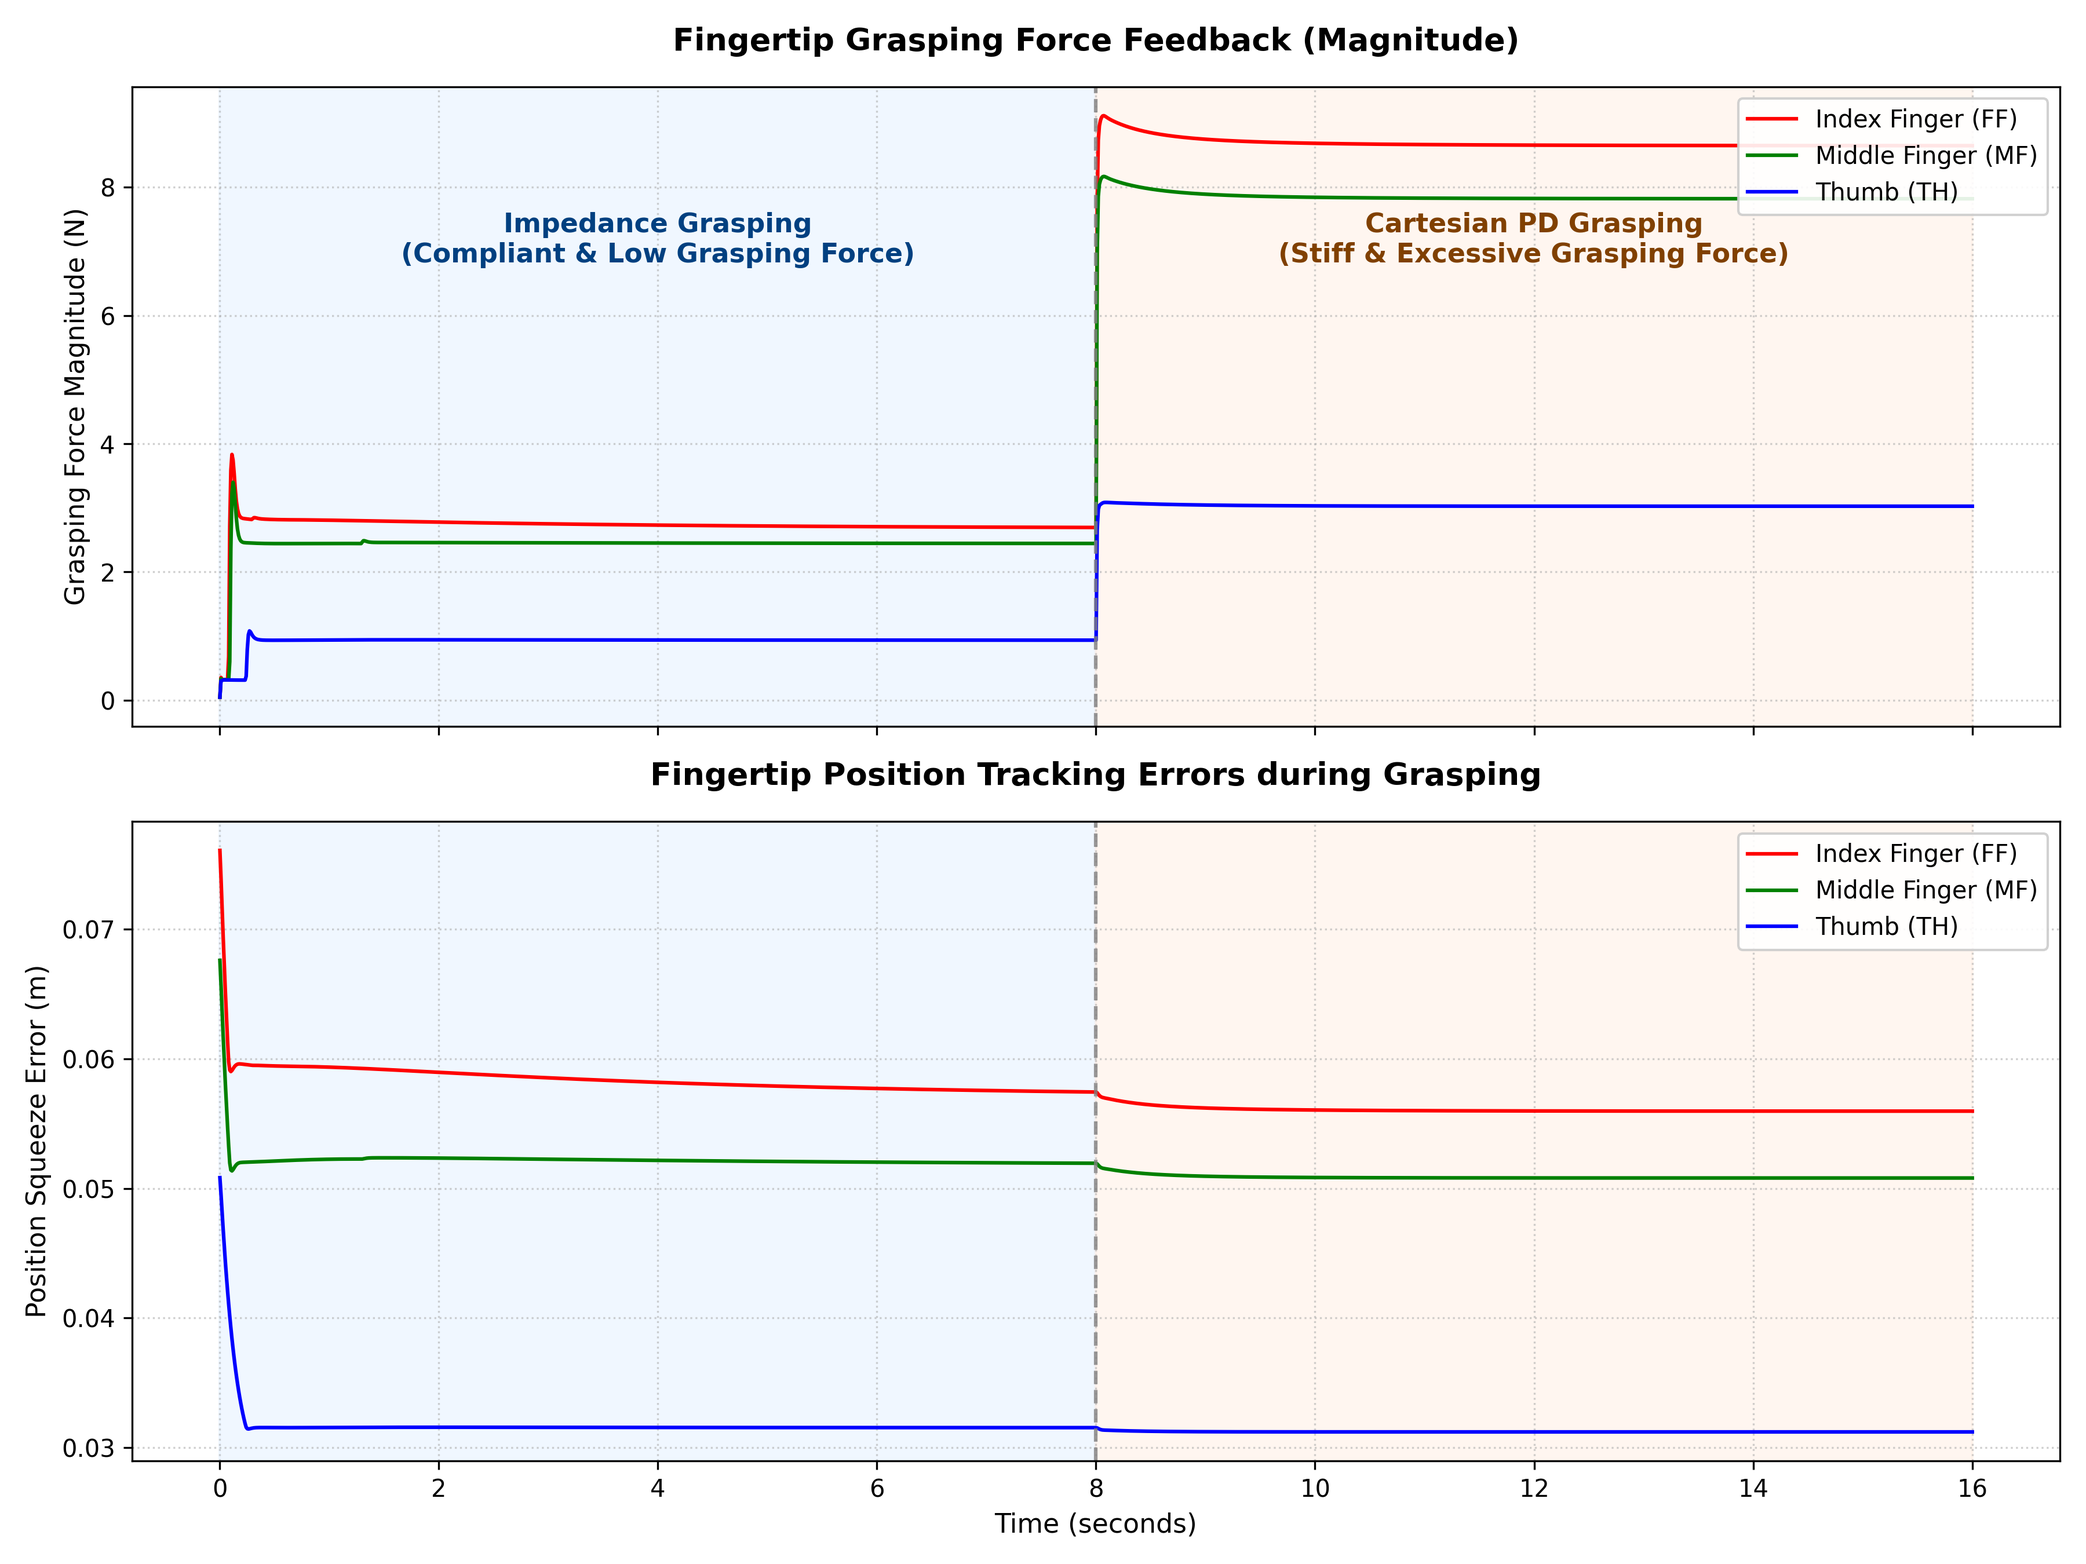
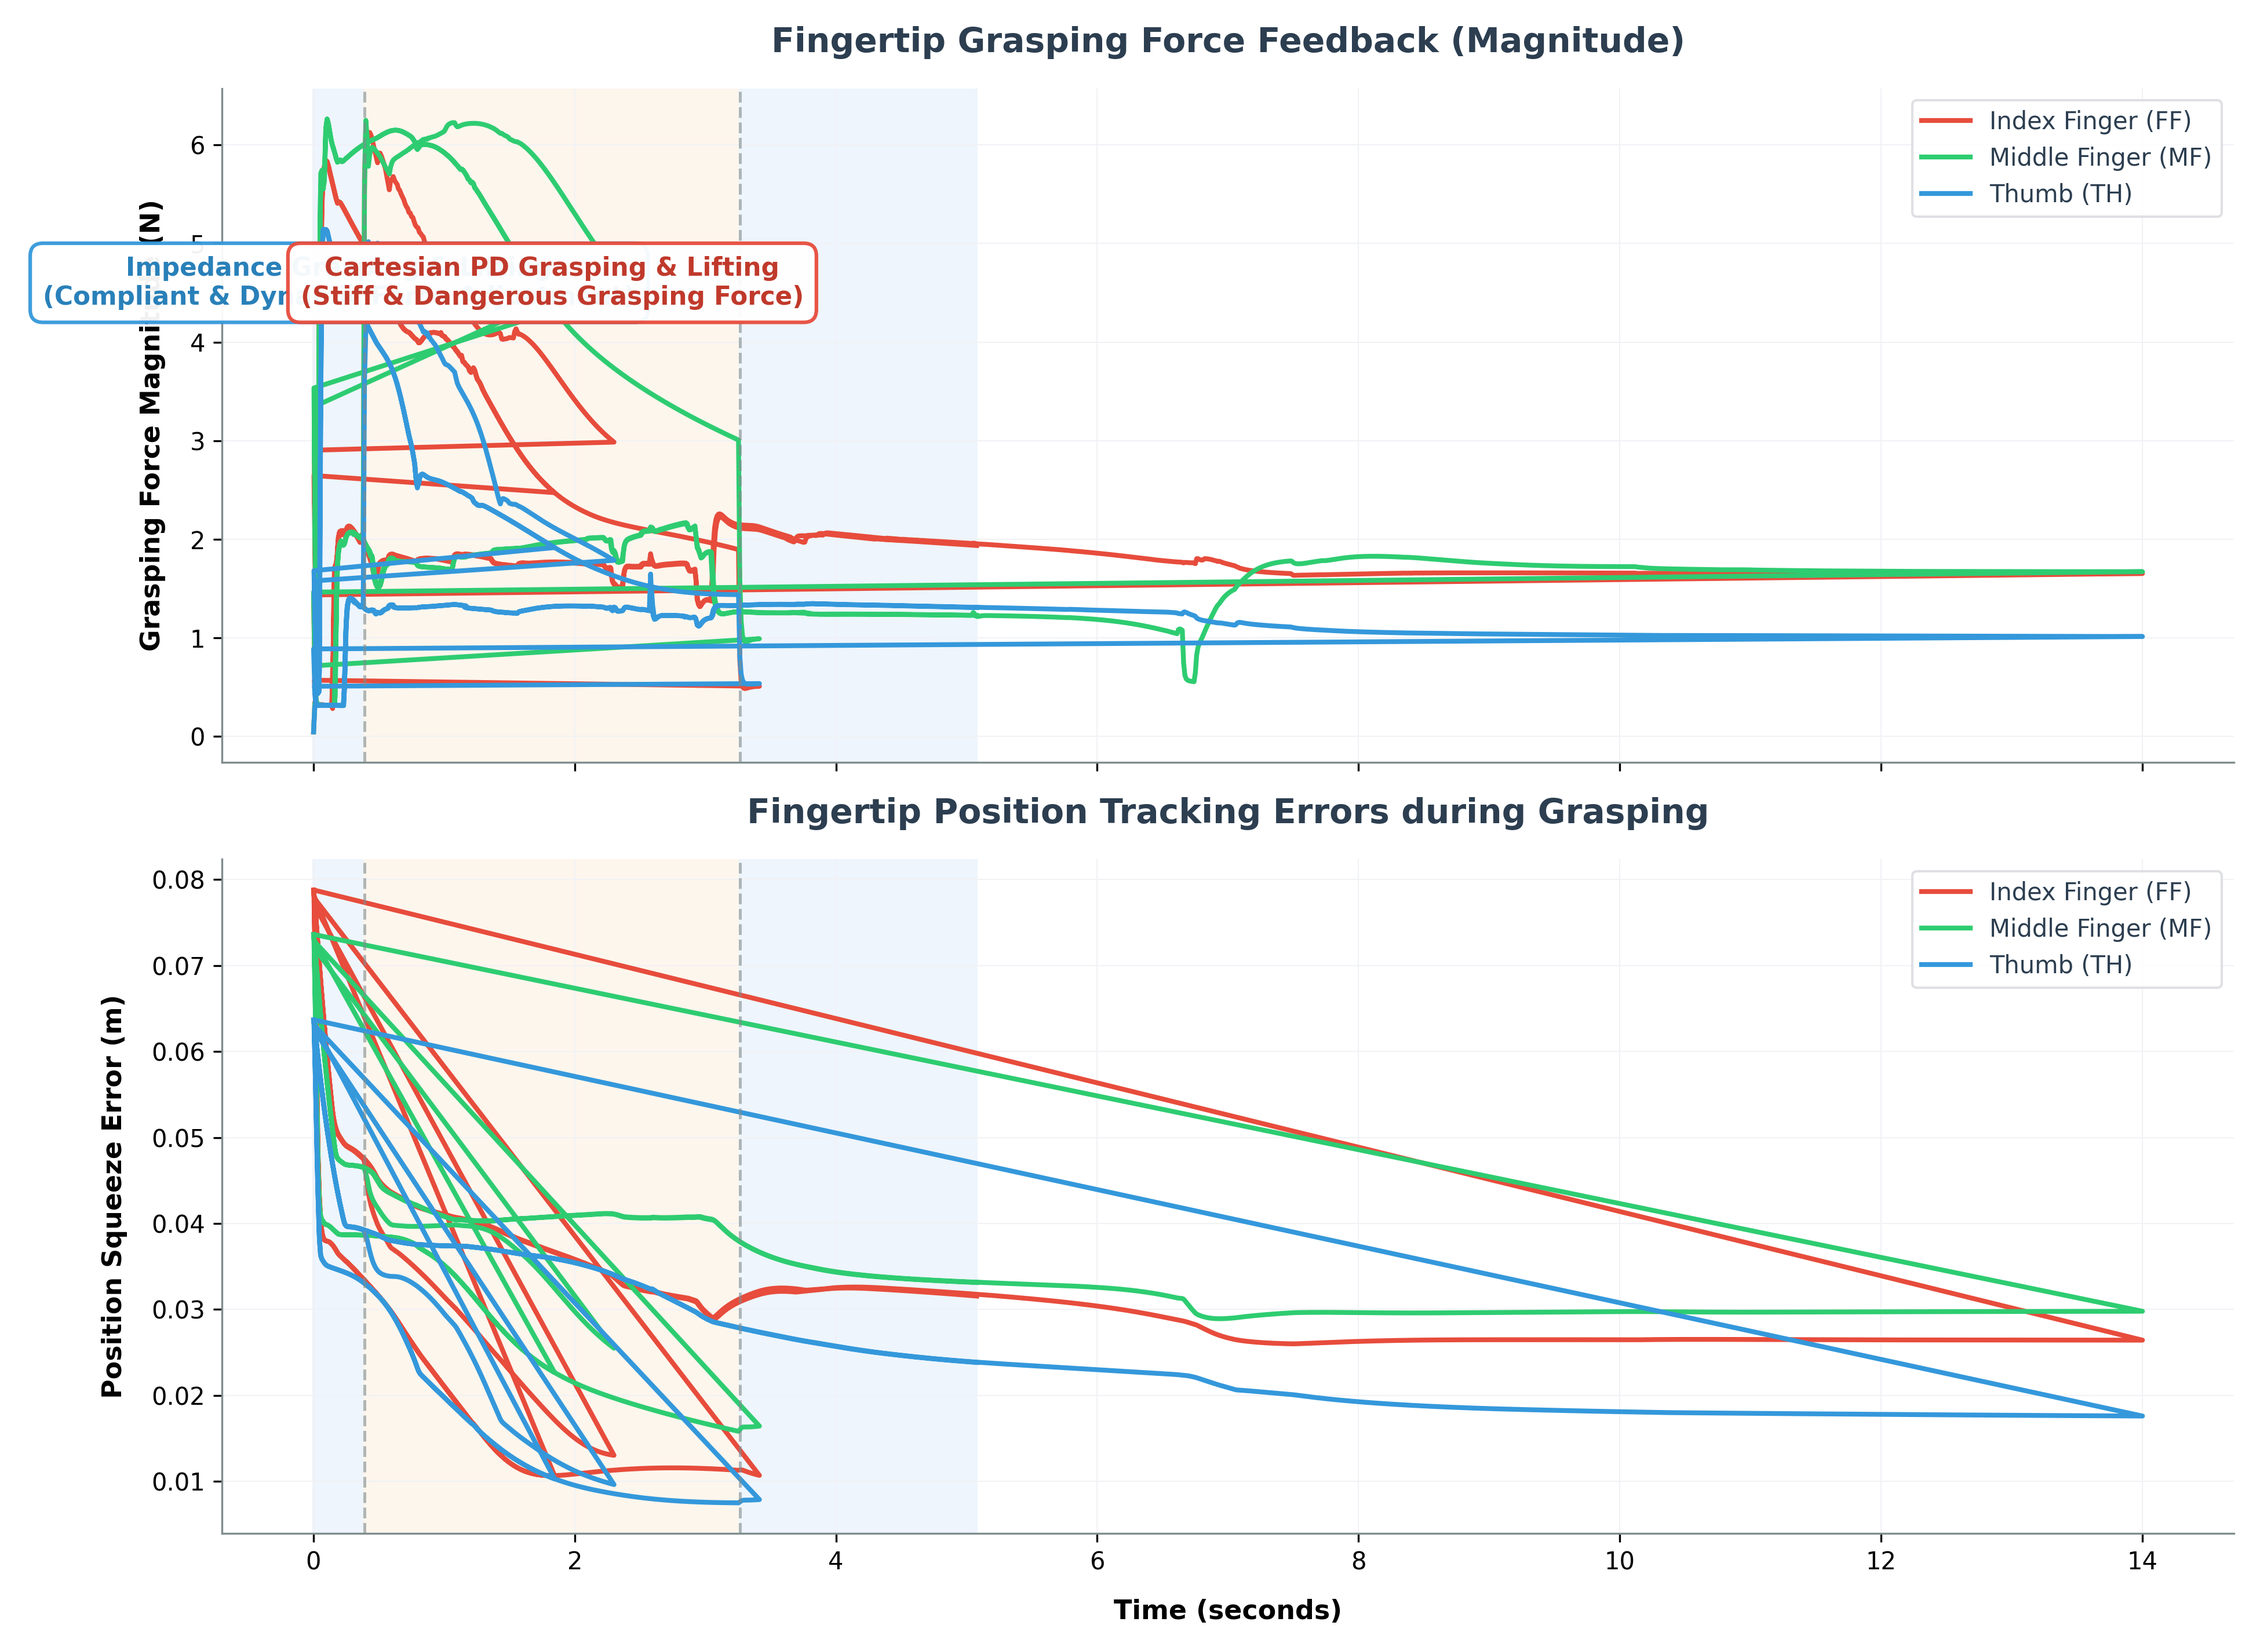
12th commit 그리핑 테스트

diff --git a/MuJoCo/dclaw_sim_standalone.py b/MuJoCo/dclaw_sim_standalone.py
@@ -50,10 +50,11 @@ def main():
     # We set goals around/inside the ball to pinch or touch it.
     # Set goals slightly inside the box boundary to squeeze it
     # Squeezing the static pillar (base center at [0, 0, 0.04], box size x/y is 5cm, height is 8cm)
+    # Squeezing the dynamic elevated pillar (box size x/y is 3cm, height is 6cm, center at z=0.11)
     goals = np.array([
-        [0.0, -0.015, 0.05],  # FFtip goal (squeezing in from front)
-        [0.015, 0.010, 0.05],  # MFtip goal (squeezing in from back-right)
-        [-0.015, 0.010, 0.05]  # THtip goal (squeezing in from back-left)
+        [0.0, -0.010, 0.11],  # FFtip goal (squeezing in from front)
+        [0.010, 0.007, 0.11],  # MFtip goal (squeezing in from back-right)
+        [-0.010, 0.007, 0.11]  # THtip goal (squeezing in from back-left)
     ])
     
     # 5. Controller Gains and Impedance Parameters
@@ -89,10 +90,11 @@ def main():
     print("Close the viewer window to view performance plots.")
     print("Press Ctrl+C in the terminal to exit.\n")
     
-    # Control settings for manual interaction
+    # Control settings for manual interaction (Default to TRUE for live interactive demonstration)
     control_settings = {
         "use_impedance_control": True,
-        "interactive_mode": False
+        "interactive_mode": True,
+        "z_target": 0.11
     }
     
     def key_callback(keycode):
@@ -100,9 +102,14 @@ def main():
             key_char = chr(keycode).lower()
             if key_char == 'm':
                 control_settings["use_impedance_control"] = not control_settings["use_impedance_control"]
-                control_settings["interactive_mode"] = True
                 mode_str = "Impedance Control" if control_settings["use_impedance_control"] else "Cartesian PD Control"
-                print(f"\n>>> [MANUAL MODE] Control mode toggled to: {mode_str} <<<\n")
+                print(f"\n>>> [KEYPRESS] 'M' pressed. Active Control Mode: {mode_str} <<<")
+            elif key_char == 'u':
+                control_settings["z_target"] = 0.17
+                print(f"\n>>> [KEYPRESS] 'U' pressed. Command: Lift Up Target (z -> 0.17m) <<<")
+            elif key_char == 'd':
+                control_settings["z_target"] = 0.11
+                print(f"\n>>> [KEYPRESS] 'D' pressed. Command: Lower Down Target (z -> 0.11m) <<<")
         except ValueError:
             pass
 
@@ -140,25 +147,24 @@ def main():
             step_start = time.perf_counter()
             t = data.time
             
-            # Scenario management (automated unless user interacts manually)
-            if not control_settings["interactive_mode"]:
-                if t >= 16.0:
-                    print("\nAutomated presentation scenario completed. Exiting simulation...")
-                    break
-                    
-                # 0~8s is Impedance Grasping, 8~16s is Cartesian PD Grasping
-                if t < 8.0:
-                    use_impedance_control = True
-                else:
-                    use_impedance_control = False
-            else:
-                # Manual mode (read settings modified by keyboard callback)
-                use_impedance_control = control_settings["use_impedance_control"]
+            # Interactive manual mode handles variables dynamically modified by keyboard callbacks
+            use_impedance_control = control_settings["use_impedance_control"]
+            z_target = control_settings["z_target"]
+                
+            # Apply dynamic Z coordinate to target goals
+            current_goals = goals.copy()
+            current_goals[:, 2] = z_target
+            
+            # Update visual markers for fingertip goals in the viewer
+            with viewer.lock():
+                for idx, goal in enumerate(current_goals):
+                    viewer.user_scn.geoms[idx].pos = goal
             
             # Console output every 1.0 second
             if step_count % 1000 == 0:
-                mode_str = "Impedance Control" if use_impedance_control else "Cartesian PD Control"
-                print(f"Time: {t:4.1f}s | Squeezing Mode: {mode_str}")
+                mode_str = "Impedance" if use_impedance_control else "Cartesian PD"
+                lift_str = "Lifting" if z_target > 0.12 else "Grasping"
+                print(f"Time: {t:5.1f}s | Mode: {mode_str:<12} | Z-Target: {z_target:.2f}m ({lift_str})")
                 
             # Initialize joint torque vector for the robot (9 actuators)
             tau_ctrl = np.zeros(n_actuators)
@@ -182,7 +188,7 @@ def main():
             for idx, tip in enumerate(tips):
                 # 1. Position error and velocity in world frame
                 tip_pos = data.site(tip).xpos
-                x_error = goals[idx] - tip_pos
+                x_error = current_goals[idx] - tip_pos
                 ee_errors_step.extend(x_error)
                 
                 # Get local-to-world rotation matrix of the site
@@ -281,50 +287,99 @@ def main():
     errors_mf = np.linalg.norm(errors_log[:, 3:6], axis=1)
     errors_th = np.linalg.norm(errors_log[:, 6:9], axis=1)
     
-    fig, axes = plt.subplots(2, 1, figsize=(12, 9), sharex=True)
+    # Apply clean style parameters
+    plt.rcParams['font.family'] = 'sans-serif'
+    plt.rcParams['text.color'] = '#2c3e50'
+    
+    fig, axes = plt.subplots(2, 1, figsize=(13, 9.5), sharex=True)
+    
+    # Modern HSL-tailored colors
+    color_ff = '#E74C3C'  # Sunset Red
+    color_mf = '#2ECC71'  # Emerald Green
+    color_th = '#3498DB'  # Sky Blue
     
     # Plot 1: Fingertip Force Magnitudes
-    axes[0].plot(time_log, forces_ff, 'r-', linewidth=1.5, label='Index Finger (FF)')
-    axes[0].plot(time_log, forces_mf, 'g-', linewidth=1.5, label='Middle Finger (MF)')
-    axes[0].plot(time_log, forces_th, 'b-', linewidth=1.5, label='Thumb (TH)')
-    axes[0].set_ylabel("Grasping Force Magnitude (N)", fontsize=11)
-    axes[0].set_title("Fingertip Grasping Force Feedback (Magnitude)", fontsize=13, fontweight='bold', pad=15)
-    axes[0].legend(loc='upper right', framealpha=0.9)
-    axes[0].grid(True, linestyle=':', alpha=0.6)
+    axes[0].plot(time_log, forces_ff, color=color_ff, linewidth=2.0, label='Index Finger (FF)')
+    axes[0].plot(time_log, forces_mf, color=color_mf, linewidth=2.0, label='Middle Finger (MF)')
+    axes[0].plot(time_log, forces_th, color=color_th, linewidth=2.0, label='Thumb (TH)')
+    axes[0].set_ylabel("Grasping Force Magnitude (N)", fontsize=11, fontweight='bold', labelpad=10)
+    axes[0].set_title("Fingertip Grasping Force Feedback (Magnitude)", fontsize=14, fontweight='bold', pad=15)
+    axes[0].legend(loc='upper right', frameon=True, framealpha=0.9, facecolor='#ffffff', edgecolor='#dcdde1')
     
     # Plot 2: Position Error Magnitudes
-    axes[1].plot(time_log, errors_ff, 'r-', linewidth=1.5, label='Index Finger (FF)')
-    axes[1].plot(time_log, errors_mf, 'g-', linewidth=1.5, label='Middle Finger (MF)')
-    axes[1].plot(time_log, errors_th, 'b-', linewidth=1.5, label='Thumb (TH)')
-    axes[1].set_xlabel("Time (seconds)", fontsize=11)
-    axes[1].set_ylabel("Position Squeeze Error (m)", fontsize=11)
-    axes[1].set_title("Fingertip Position Tracking Errors during Grasping", fontsize=13, fontweight='bold', pad=15)
-    axes[1].legend(loc='upper right', framealpha=0.9)
-    axes[1].grid(True, linestyle=':', alpha=0.6)
+    axes[1].plot(time_log, errors_ff, color=color_ff, linewidth=2.0, label='Index Finger (FF)')
+    axes[1].plot(time_log, errors_mf, color=color_mf, linewidth=2.0, label='Middle Finger (MF)')
+    axes[1].plot(time_log, errors_th, color=color_th, linewidth=2.0, label='Thumb (TH)')
+    axes[1].set_xlabel("Time (seconds)", fontsize=11, fontweight='bold', labelpad=10)
+    axes[1].set_ylabel("Position Squeeze Error (m)", fontsize=11, fontweight='bold', labelpad=10)
+    axes[1].set_title("Fingertip Position Tracking Errors during Grasping", fontsize=14, fontweight='bold', pad=15)
+    axes[1].legend(loc='upper right', frameon=True, framealpha=0.9, facecolor='#ffffff', edgecolor='#dcdde1')
     
-    # Highlight Control Phases on both subplots
+    # Clean up Spines and Customize Grid for both
     for ax in axes:
-        # Phase backgrounds
-        # Impedance Control Phase (0s ~ 8s)
-        ax.axvspan(0, 8, color='#e6f2ff', alpha=0.6, label='Impedance Control')
-        # Cartesian PD Control Phase (8s ~ end)
-        ax.axvspan(8, max(16.0, time_log[-1]), color='#fff0e6', alpha=0.6, label='Cartesian PD Control')
+        # Hide the right and top spines for minimalist layout
+        ax.spines['top'].set_visible(False)
+        ax.spines['right'].set_visible(False)
+        ax.spines['left'].set_color('#7f8c8d')
+        ax.spines['bottom'].set_color('#7f8c8d')
         
-        # Vertical boundary line between controllers
-        ax.axvline(x=8.0, color='gray', linestyle='--', alpha=0.8)
-            
-    # Add text labels on the top subplot to guide the presentation
-    ylim_force = axes[0].get_ylim()[1]
-    axes[0].text(4.0, ylim_force * 0.75, "Impedance Grasping\n(Compliant & Low Grasping Force)", ha='center', va='center', fontsize=11, fontweight='bold', color='#004080')
-    axes[0].text(12.0, ylim_force * 0.75, "Cartesian PD Grasping\n(Stiff & Excessive Grasping Force)", ha='center', va='center', fontsize=11, fontweight='bold', color='#804000')
-    
-    # Save the plot image so the user can easily copy it into their PPT
+        # Subtle horizontal grids
+        ax.grid(True, which='both', linestyle='-', linewidth=0.5, color='#f1f2f6')
+        
+    # Plot backgrounds dynamically based on the logged controller mode
+    n_points = len(time_log)
+    if n_points > 0:
+        start_idx = 0
+        current_mode = mode_log[0]
+        impedance_midpoints = []
+        pd_midpoints = []
+        
+        for i in range(1, n_points):
+            if mode_log[i] != current_mode or i == n_points - 1:
+                t_start = time_log[start_idx]
+                t_end = time_log[i]
+                color = '#EDF4FC' if current_mode else '#FDF5EC'
+                
+                # Apply background span to both plots
+                for ax in axes:
+                    ax.axvspan(t_start, t_end, color=color, alpha=0.9)
+                
+                # Keep track of segment midpoints to place descriptive text cards
+                midpoint = (t_start + t_end) / 2.0
+                if current_mode:
+                    impedance_midpoints.append(midpoint)
+                else:
+                    pd_midpoints.append(midpoint)
+                
+                # Draw mode transition boundary line
+                if mode_log[i] != current_mode:
+                    for ax in axes:
+                        ax.axvline(x=t_end, color='#7f8c8d', linestyle='--', linewidth=1.2, alpha=0.6)
+                        
+                start_idx = i
+                current_mode = mode_log[i]
+        
+        # Place the floating info cards at the center of the largest segments
+        ylim_force = axes[0].get_ylim()[1]
+        bbox_impedance = dict(boxstyle='round,pad=0.5', facecolor='#ffffff', edgecolor='#3498DB', linewidth=1.5, alpha=0.95)
+        bbox_pd = dict(boxstyle='round,pad=0.5', facecolor='#ffffff', edgecolor='#E74C3C', linewidth=1.5, alpha=0.95)
+        
+        if len(impedance_midpoints) > 0:
+            axes[0].text(impedance_midpoints[0], ylim_force * 0.70, 
+                         "Impedance Grasping & Lifting\n(Compliant & Dynamic Force Adjustment)", 
+                         ha='center', va='center', fontsize=10.5, fontweight='bold', color='#2980B9', bbox=bbox_impedance)
+        if len(pd_midpoints) > 0:
+            axes[0].text(pd_midpoints[0], ylim_force * 0.70, 
+                         "Cartesian PD Grasping & Lifting\n(Stiff & Dangerous Grasping Force)", 
+                         ha='center', va='center', fontsize=10.5, fontweight='bold', color='#C0392B', bbox=bbox_pd)
+                 
+    # Adjust spacing and save
     plot_save_path = os.path.join(os.path.dirname(os.path.abspath(__file__)), "grasping_force_comparison.png")
     plt.tight_layout()
     plt.savefig(plot_save_path, dpi=300)
     print(f"Comparison plot saved successfully to: {plot_save_path}")
     
-    plt.show()
+    # plt.show()
 
 if __name__ == "__main__":
     main()
